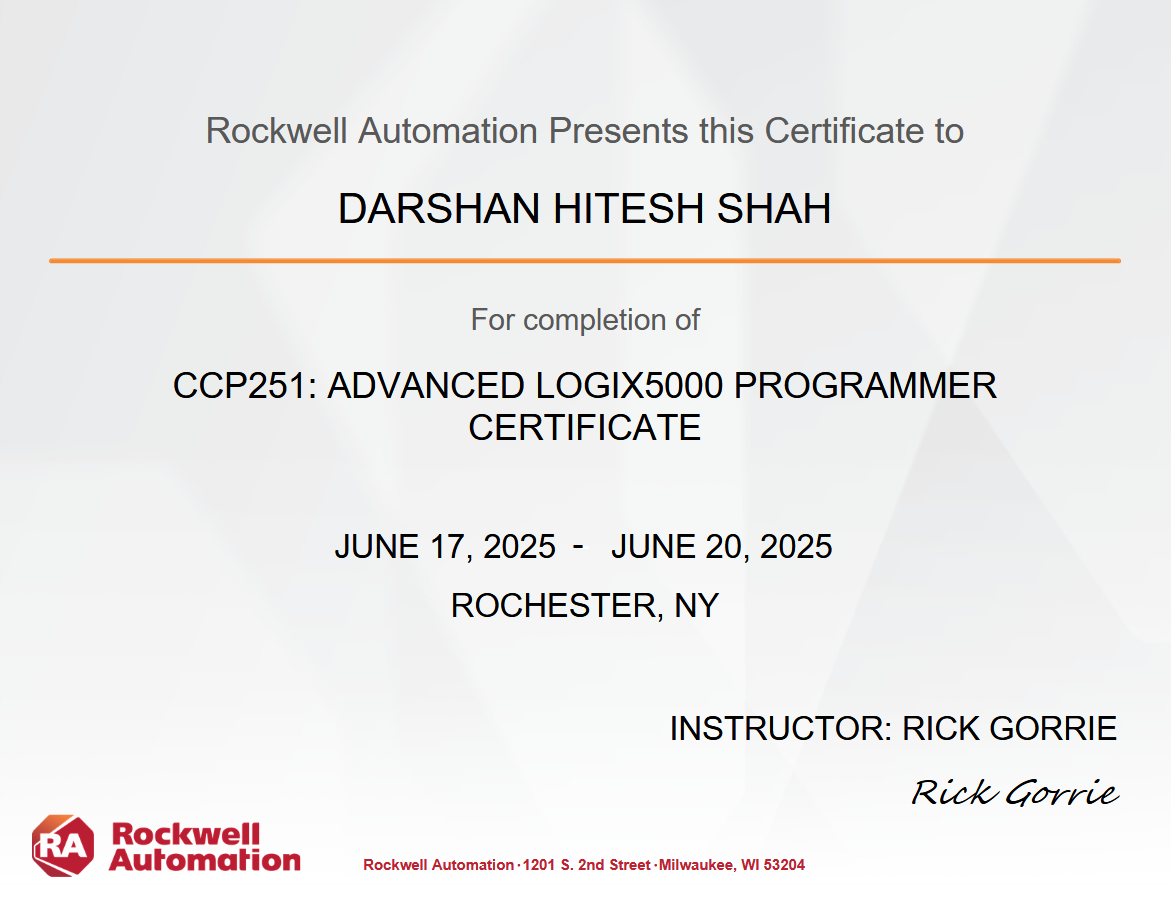
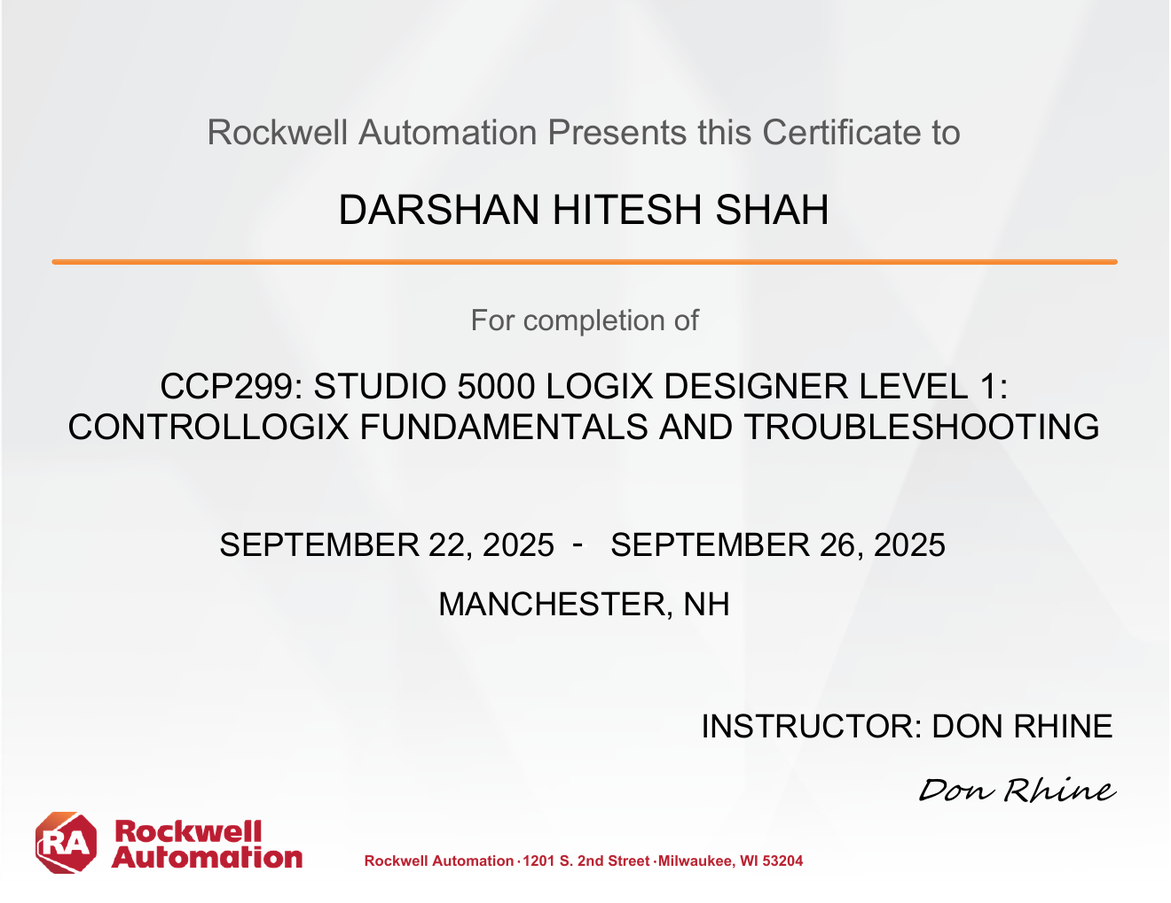
Fix CCP299 image and refresh README
The CCP299 PNG was a copy of the CCP251 certificate. It is now rendered
from the correct CCP299 PDF. The README lists every certificate with its
issuer, completion date and verify link, and uses relative image paths.

Claude-Session: https://claude.ai/code/session_01UoP46fxah65e5zsLX9pNS3

diff --git a/README.md b/README.md
@@ -1,14 +1,33 @@
-# Certification-Courses
+# Certification Courses
 
-`Below are all the Course Certificates which I have completed*.`
-![pic7](https://github.com/darshan6998/Certification-Courses/blob/master/CertificatesImages/CCP251%20Advanced%20Logix5000%20Programmer%20Certificate.png)
-![pic8](https://github.com/darshan6998/Certification-Courses/blob/master/CertificatesImages/CCP299%20STUDIO%205000%20LOGIX%20DESIGNER%20LEVEL%201.png)
-![pic6](https://github.com/darshan6998/Certification-Courses/blob/master/CertificatesImages/Udacity%20Nanodegree%20Graduation%20Certificate-1.png)
-![pic1](https://github.com/darshan6998/Certification-Courses/blob/master/CertificatesImages/Robotics%20Software%20Engineer%20Udacity.png)
-![pic2](https://github.com/darshan6998/Certification-Courses/blob/master/CertificatesImages/Coursera%20Modern%20Robotics.png)
-![pic3](https://github.com/darshan6998/Certification-Courses/blob/master/CertificatesImages/Coursera%20Neural%20Network%20and%20Deep%20Learning.png)
-![pic4](https://github.com/darshan6998/Certification-Courses/blob/master/CertificatesImages/Coursera%20Python%20data%20Structures.png)
-![pic5](https://github.com/darshan6998/Certification-Courses/blob/master/CertificatesImages/Coursera%20Starting%20with%20Python.png)
+Certificates for the training and courses I have completed, newest first. Each certificate is here as an image (`CertificatesImages/`) and the original PDF (`Certification Courses/`).
 
+The same certificates are on my portfolio at [darshanhshah.com](https://darshanhshah.com/#certifications).
 
-  *   *Some courses are still not completed yet, will update when its completed.
+## Industrial automation
+
+| Certificate | Issuer | Completed |
+|---|---|---|
+| CCP299: Studio 5000 Logix Designer Level 1, ControlLogix Fundamentals and Troubleshooting | Rockwell Automation, Manchester NH | Sep 2025 |
+| CCP251: Advanced Logix5000 Programmer | Rockwell Automation, Rochester NY | Jun 2025 |
+
+![CCP299 Studio 5000 Logix Designer Level 1](CertificatesImages/CCP299%20STUDIO%205000%20LOGIX%20DESIGNER%20LEVEL%201.png)
+![CCP251 Advanced Logix5000 Programmer](CertificatesImages/CCP251%20Advanced%20Logix5000%20Programmer%20Certificate.png)
+
+## Robotics, machine learning and software
+
+| Certificate | Issuer | Completed | Verify |
+|---|---|---|---|
+| Deep Learning Nanodegree | Udacity | Mar 2022 | [confirm.udacity.com/MTQAPLSE](https://confirm.udacity.com/MTQAPLSE) |
+| Robotics Software Engineer Nanodegree | Udacity | Jun 2020 | [confirm.udacity.com/KKGTVDA2](https://confirm.udacity.com/KKGTVDA2) |
+| Neural Networks and Deep Learning | DeepLearning.AI on Coursera | Sep 2019 | [coursera.org/verify/DB8C394TZVWY](https://coursera.org/verify/DB8C394TZVWY) |
+| Modern Robotics, Course 1: Foundations of Robot Motion | Northwestern University on Coursera | Aug 2019 | [coursera.org/verify/W2XLN5VBFPCQ](https://coursera.org/verify/W2XLN5VBFPCQ) |
+| Python Data Structures | University of Michigan on Coursera | Aug 2019 | [coursera.org/verify/R3CB4QFZHG55](https://coursera.org/verify/R3CB4QFZHG55) |
+| Programming for Everybody (Getting Started with Python) | University of Michigan on Coursera | Jul 2019 | [coursera.org/verify/9HK7CFZHSCGK](https://coursera.org/verify/9HK7CFZHSCGK) |
+
+![Udacity Deep Learning Nanodegree](CertificatesImages/Udacity%20Nanodegree%20Graduation%20Certificate-1.png)
+![Udacity Robotics Software Engineer Nanodegree](CertificatesImages/Robotics%20Software%20Engineer%20Udacity.png)
+![Coursera Neural Networks and Deep Learning](CertificatesImages/Coursera%20Neural%20Network%20and%20Deep%20Learning.png)
+![Coursera Modern Robotics](CertificatesImages/Coursera%20Modern%20Robotics.png)
+![Coursera Python Data Structures](CertificatesImages/Coursera%20Python%20data%20Structures.png)
+![Coursera Programming for Everybody](CertificatesImages/Coursera%20Starting%20with%20Python.png)
